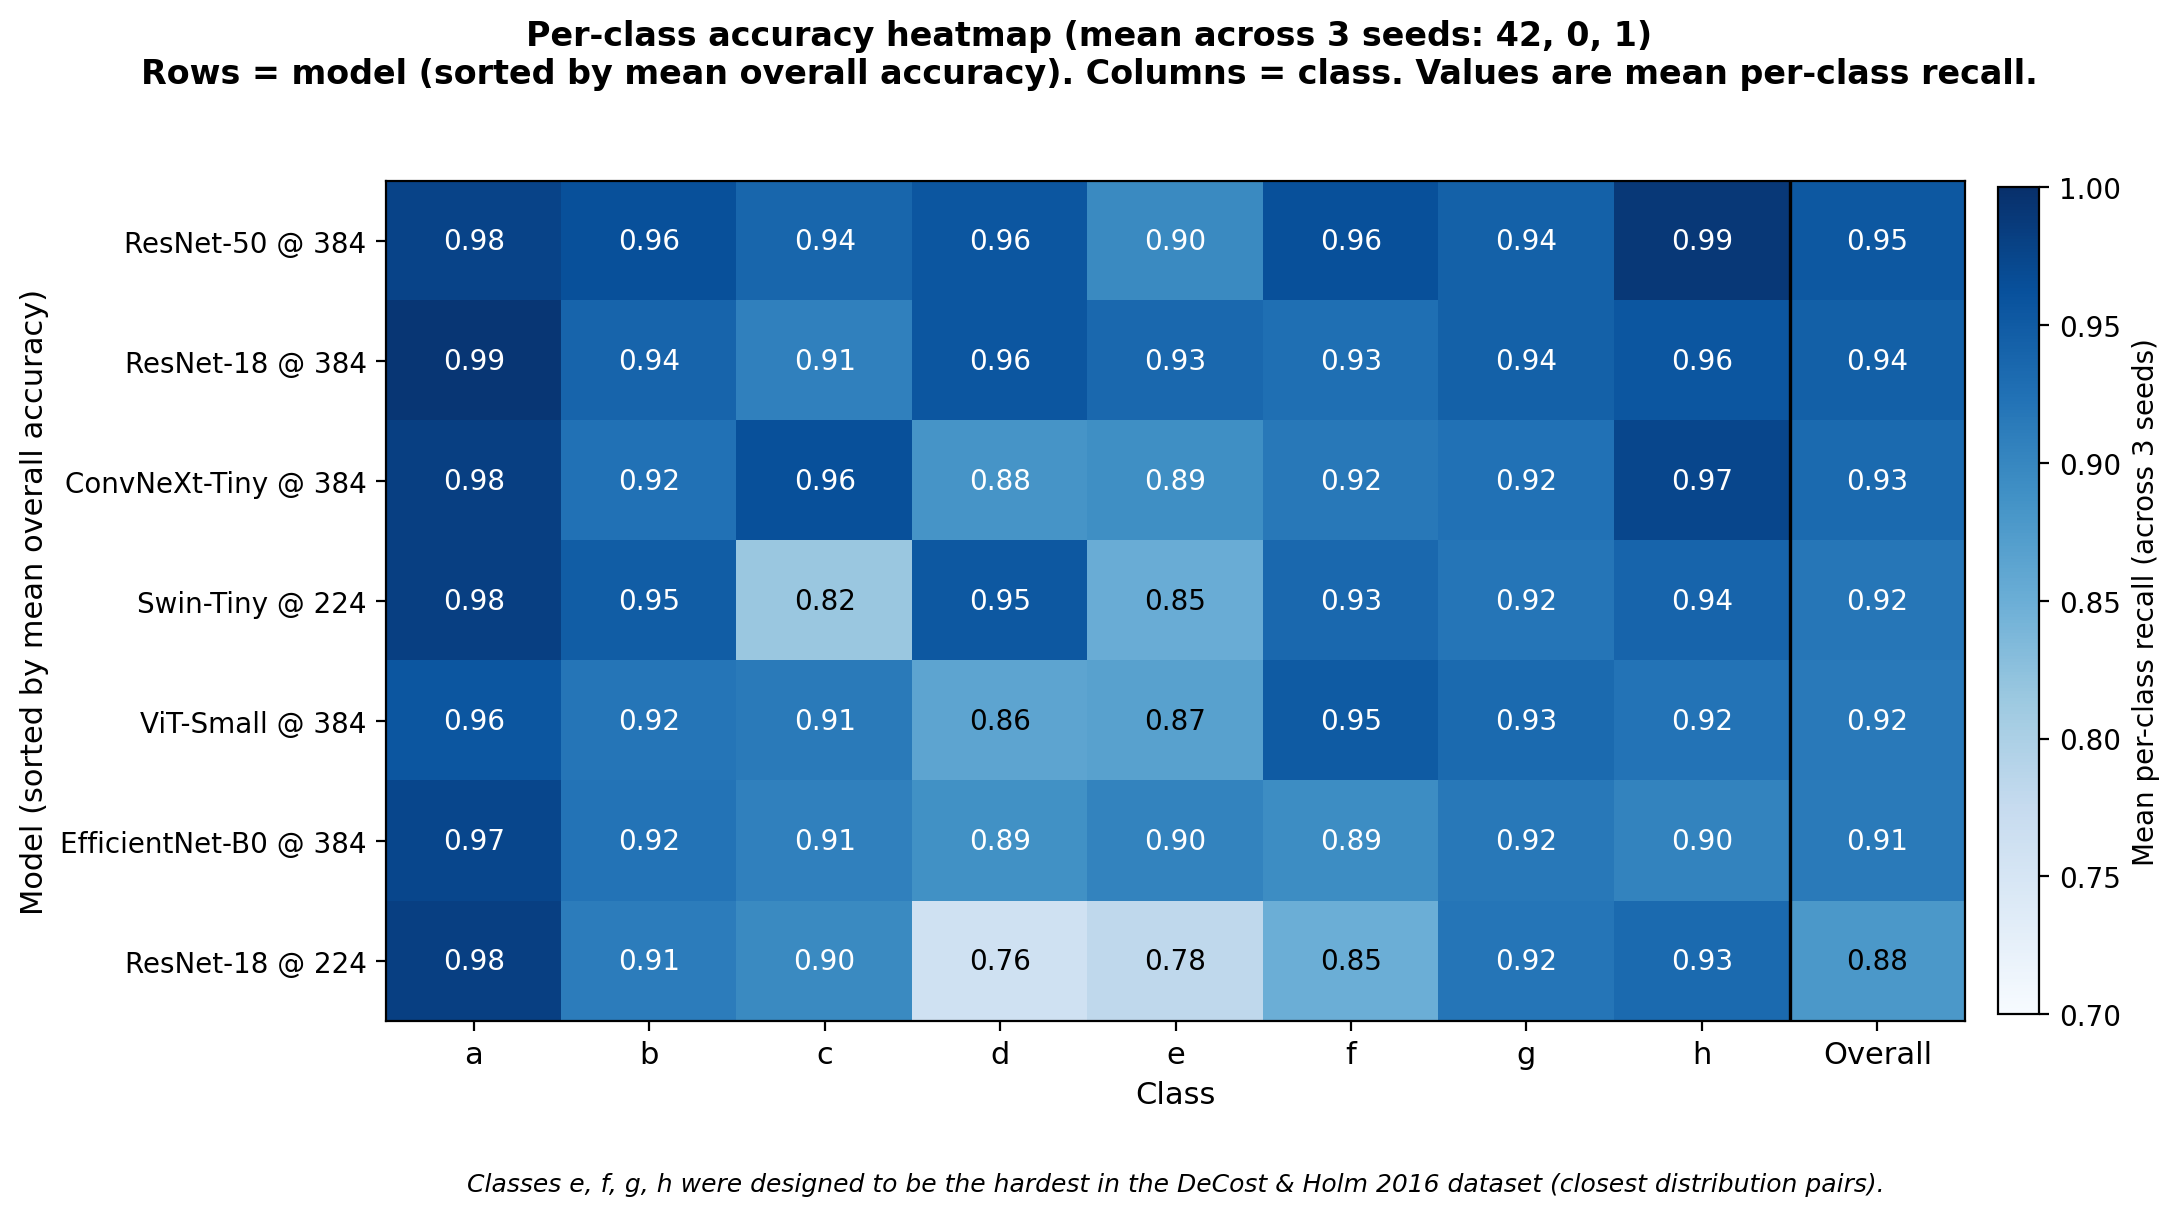
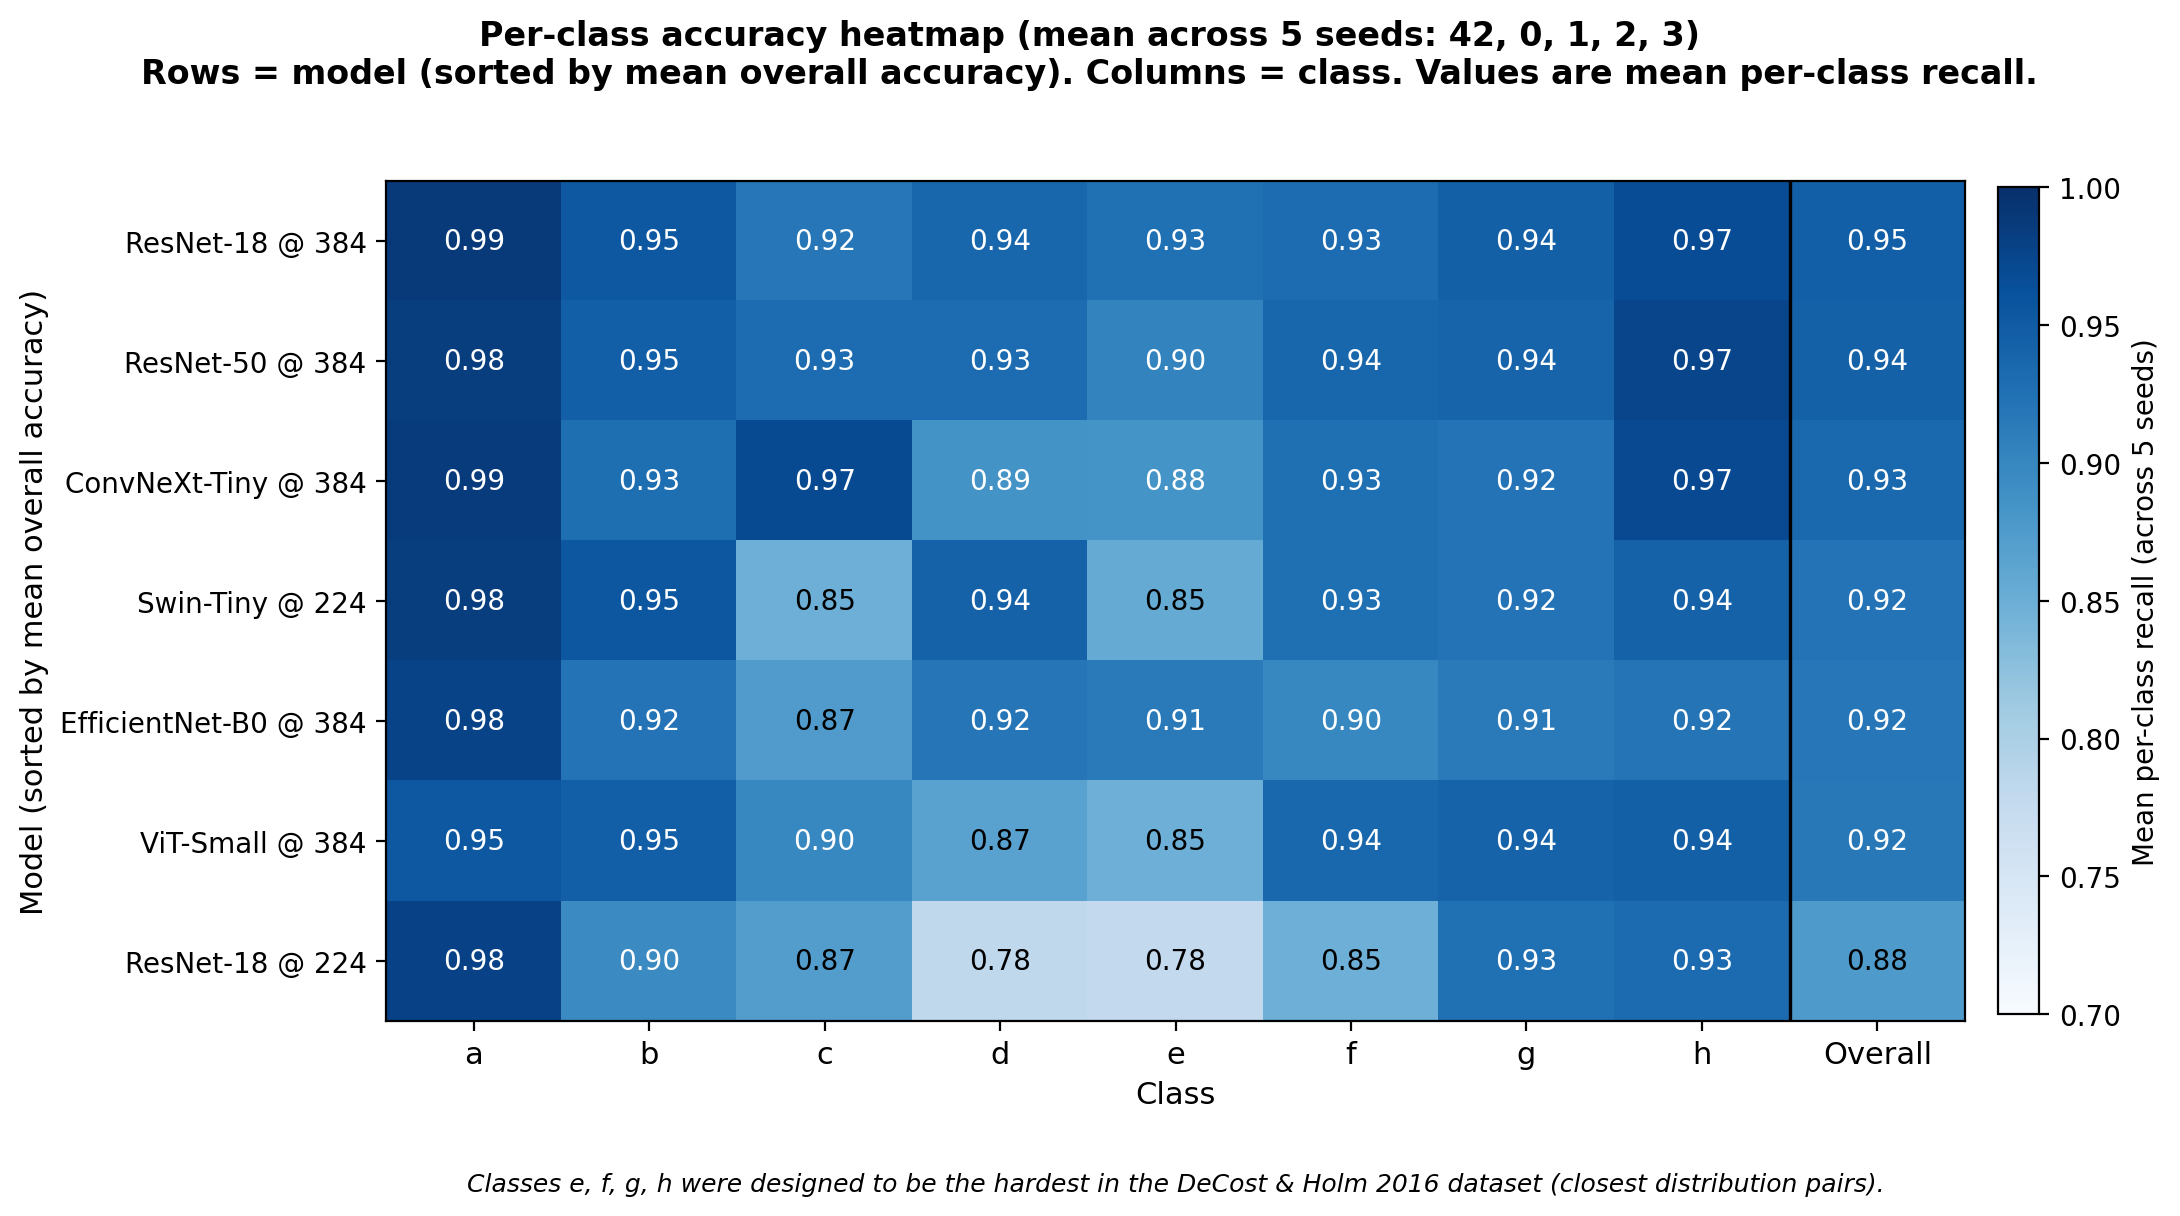
Add seeds 2 and 3: update multi-seed analysis and regenerate figures

diff --git a/src/analyze_results.py b/src/analyze_results.py
@@ -597,13 +597,13 @@ def figure_params_vs_accuracy(df: pd.DataFrame):
 
 # ======================================================================
 # PHASE 5 — Multi-seed analysis
-# Loads all 21 runs (7 architectures × 3 seeds), computes mean ± std,
+# Loads all 35 runs (7 architectures × 5 seeds), computes mean ± std,
 # and produces multiseed versions of figures 1, 2, 4, 5.
 # ======================================================================
 
-# Extended registry covering all 21 folders
+# Extended registry covering all 35 folders
 # Maps folder name → (canonical_label, params_M, resolution)
-# canonical_label is what we group by; all 3 seeds of one model share it
+# canonical_label is what we group by; all 5 seeds of one model share it
 MULTISEED_REGISTRY = {}
 
 # Build by combining each base label with each seed's folder name pattern
@@ -623,10 +623,12 @@ _RESNET18_384_FOLDERS = {
     42: "resnet18_seed42",
     0:  "resnet18_seed0_size384",
     1:  "resnet18_seed1_size384",
+    2:  "resnet18_seed2_size384",
+    3:  "resnet18_seed3_size384",
 }
 
 for label, params, res, pattern in _MODEL_DEFS:
-    for seed in [42, 0, 1]:
+    for seed in [42, 0, 1, 2, 3]:
         folder = pattern.format(seed=seed)
         MULTISEED_REGISTRY[folder] = {
             "label": label, "params_M": params, "resolution": res, "seed": seed,
@@ -639,7 +641,7 @@ for seed, folder in _RESNET18_384_FOLDERS.items():
 
 
 def load_all_seeds() -> pd.DataFrame:
-    """Load all 21 runs (7 models × 3 seeds) into one DataFrame."""
+    """Load all 35 runs (7 models × 5 seeds) into one DataFrame."""
     rows = []
     for folder_name, meta in MULTISEED_REGISTRY.items():
         run_dir = RESULTS_DIR / folder_name
@@ -745,10 +747,10 @@ def figure_main_comparison_multiseed(df_all: pd.DataFrame):
     ax.set_yticks(y_positions)
     ax.set_yticklabels(labels, fontsize=11)
     ax.set_xlim(0.75, 1.02)
-    ax.set_xlabel("Test accuracy (mean ± std across 3 seeds)", fontsize=12, fontweight="bold")
+    ax.set_xlabel("Test accuracy (mean ± std across 5 seeds)", fontsize=12, fontweight="bold")
     ax.set_title(
         "Architecture comparison on synthetic powder classification\n"
-        "(mean ± std across seeds 42, 0, 1; training set = 1024 images, test set = 1024 images)",
+        "(mean ± std across seeds 42, 0, 1, 2, 3; training set = 1024 images, test set = 1024 images)",
         fontsize=13, pad=15,
     )
 
@@ -780,7 +782,7 @@ def figure_main_comparison_multiseed(df_all: pd.DataFrame):
 
 
 # ----------------------------------------------------------------------
-# Figure 2 multiseed — Training curves with 3 seeds per model
+# Figure 2 multiseed — Training curves with 5 seeds per model
 # ----------------------------------------------------------------------
 def figure_training_curves_multiseed(df_all: pd.DataFrame):
     """Training curves with semi-transparent individual seeds + bold mean line."""
@@ -802,7 +804,7 @@ def figure_training_curves_multiseed(df_all: pd.DataFrame):
     def linewidth_for(label):
         return 2.5 if "ResNet-18" in label else 1.5
 
-    # Group by label so we can plot 3 seeds + 1 mean per model
+    # Group by label so we can plot 5 seeds + 1 mean per model
     unique_labels = df_all["label"].unique()
 
     for ax, metric, ylabel, title, ylim in [
@@ -848,11 +850,11 @@ def figure_training_curves_multiseed(df_all: pd.DataFrame):
     handles, labels = axes[1].get_legend_handles_labels()
     fig.legend(handles, labels, loc="lower center", bbox_to_anchor=(0.5, -0.05),
                ncol=4, fontsize=10, frameon=True, framealpha=0.95,
-               title="(solid = 384, dashed = 224; bold = mean of 3 seeds, faint = individual seeds)",
+               title="(solid = 384, dashed = 224; bold = mean of 5 seeds, faint = individual seeds)",
                title_fontsize=9)
 
     fig.suptitle(
-        "Training dynamics across architectures (3 seeds per model: 42, 0, 1)",
+        "Training dynamics across architectures (5 seeds per model: 42, 0, 1, 2, 3)",
         fontsize=14, fontweight="bold", y=0.99,
     )
 
@@ -867,7 +869,7 @@ def figure_training_curves_multiseed(df_all: pd.DataFrame):
 # Figure 4 multiseed — Per-class heatmap of mean recall across seeds
 # ----------------------------------------------------------------------
 def figure_per_class_heatmap_multiseed(df_all: pd.DataFrame):
-    """Heatmap of mean per-class recall across 3 seeds."""
+    """Heatmap of mean per-class recall across 5 seeds."""
     class_names = ["a", "b", "c", "d", "e", "f", "g", "h"]
     agg = aggregate_by_model(df_all)  # already sorted by mean_acc descending
 
@@ -905,10 +907,10 @@ def figure_per_class_heatmap_multiseed(df_all: pd.DataFrame):
             transform=ax.transAxes)
 
     cbar = fig.colorbar(im, ax=ax, fraction=0.025, pad=0.02)
-    cbar.set_label("Mean per-class recall (across 3 seeds)", fontsize=10)
+    cbar.set_label("Mean per-class recall (across 5 seeds)", fontsize=10)
 
     fig.suptitle(
-        "Per-class accuracy heatmap (mean across 3 seeds: 42, 0, 1)\n"
+        "Per-class accuracy heatmap (mean across 5 seeds: 42, 0, 1, 2, 3)\n"
         "Rows = model (sorted by mean overall accuracy). "
         "Columns = class. Values are mean per-class recall.",
         fontsize=12, fontweight="bold", y=1.02,
@@ -986,7 +988,7 @@ def figure_params_vs_accuracy_multiseed(df_all: pd.DataFrame):
     ax.legend(handles=legend_elements, loc="lower right", fontsize=10, framealpha=0.95)
 
     fig.suptitle(
-        "Model size vs test accuracy (mean ± std across 3 seeds: 42, 0, 1)\n"
+        "Model size vs test accuracy (mean ± std across 5 seeds: 42, 0, 1, 2, 3)\n"
         "Larger models do not yield higher accuracy on this dataset.",
         fontsize=13, fontweight="bold", y=0.98,
     )
@@ -1022,4 +1024,4 @@ def main():
     figure_main_comparison_multiseed(df_all)
     figure_training_curves_multiseed(df_all)
     figure_per_class_heatmap_multiseed(df_all)
-    figure_params_vs_accuracy_multiseed(df_all)
+    figure_params_vs_accuracy_multiseed(df_all)
